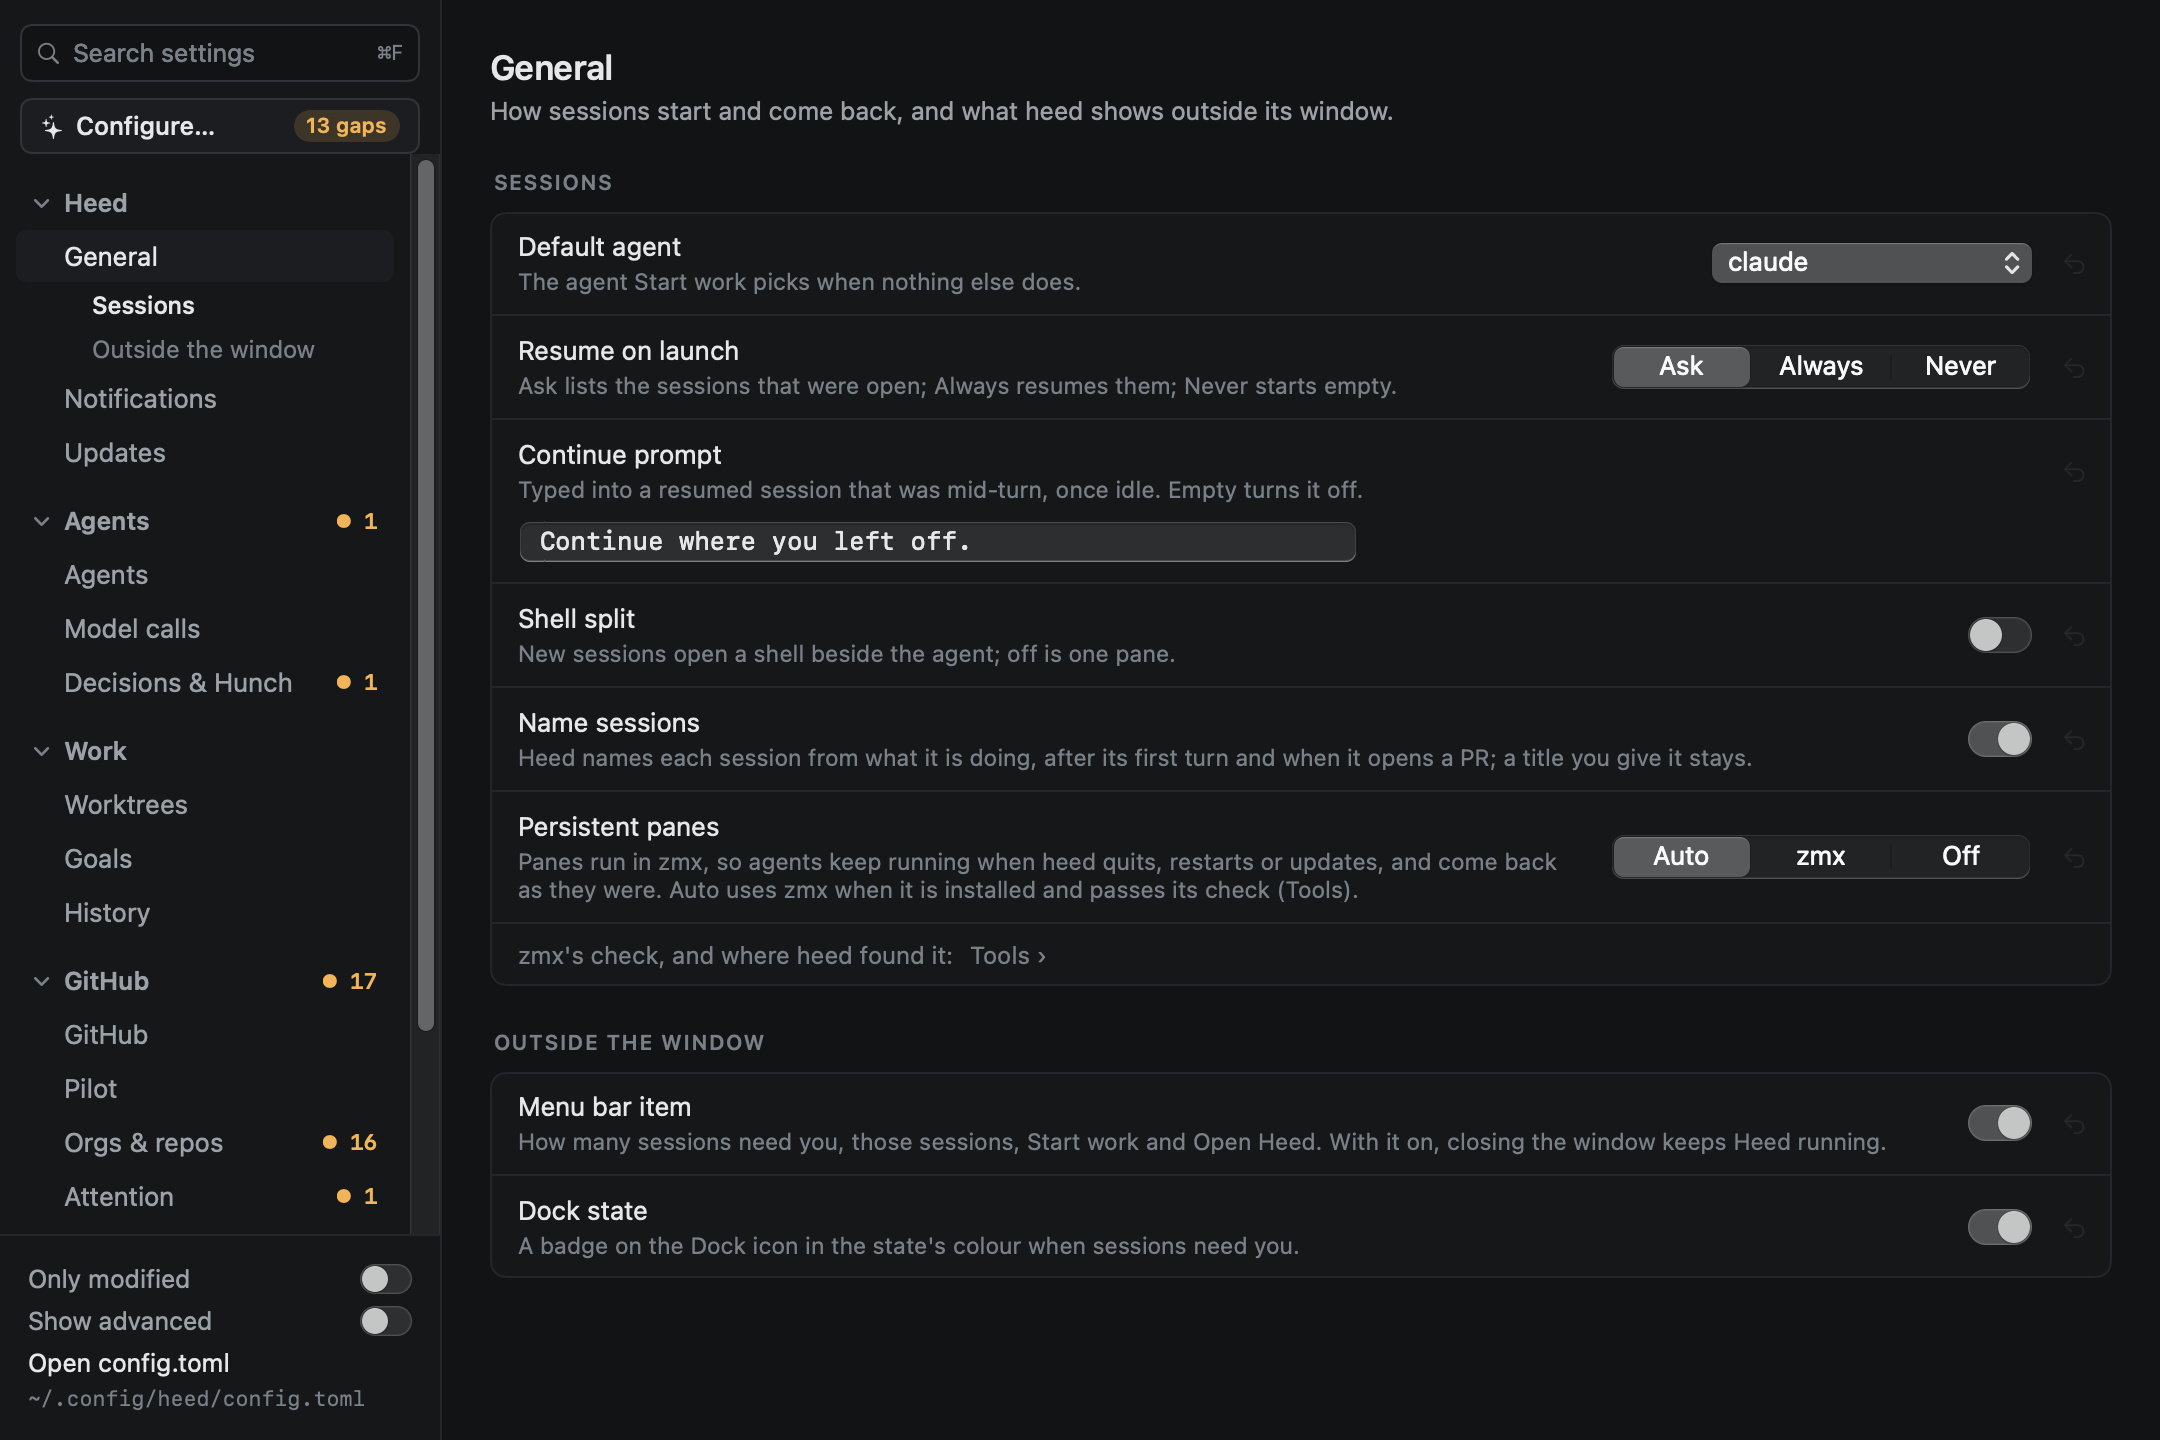
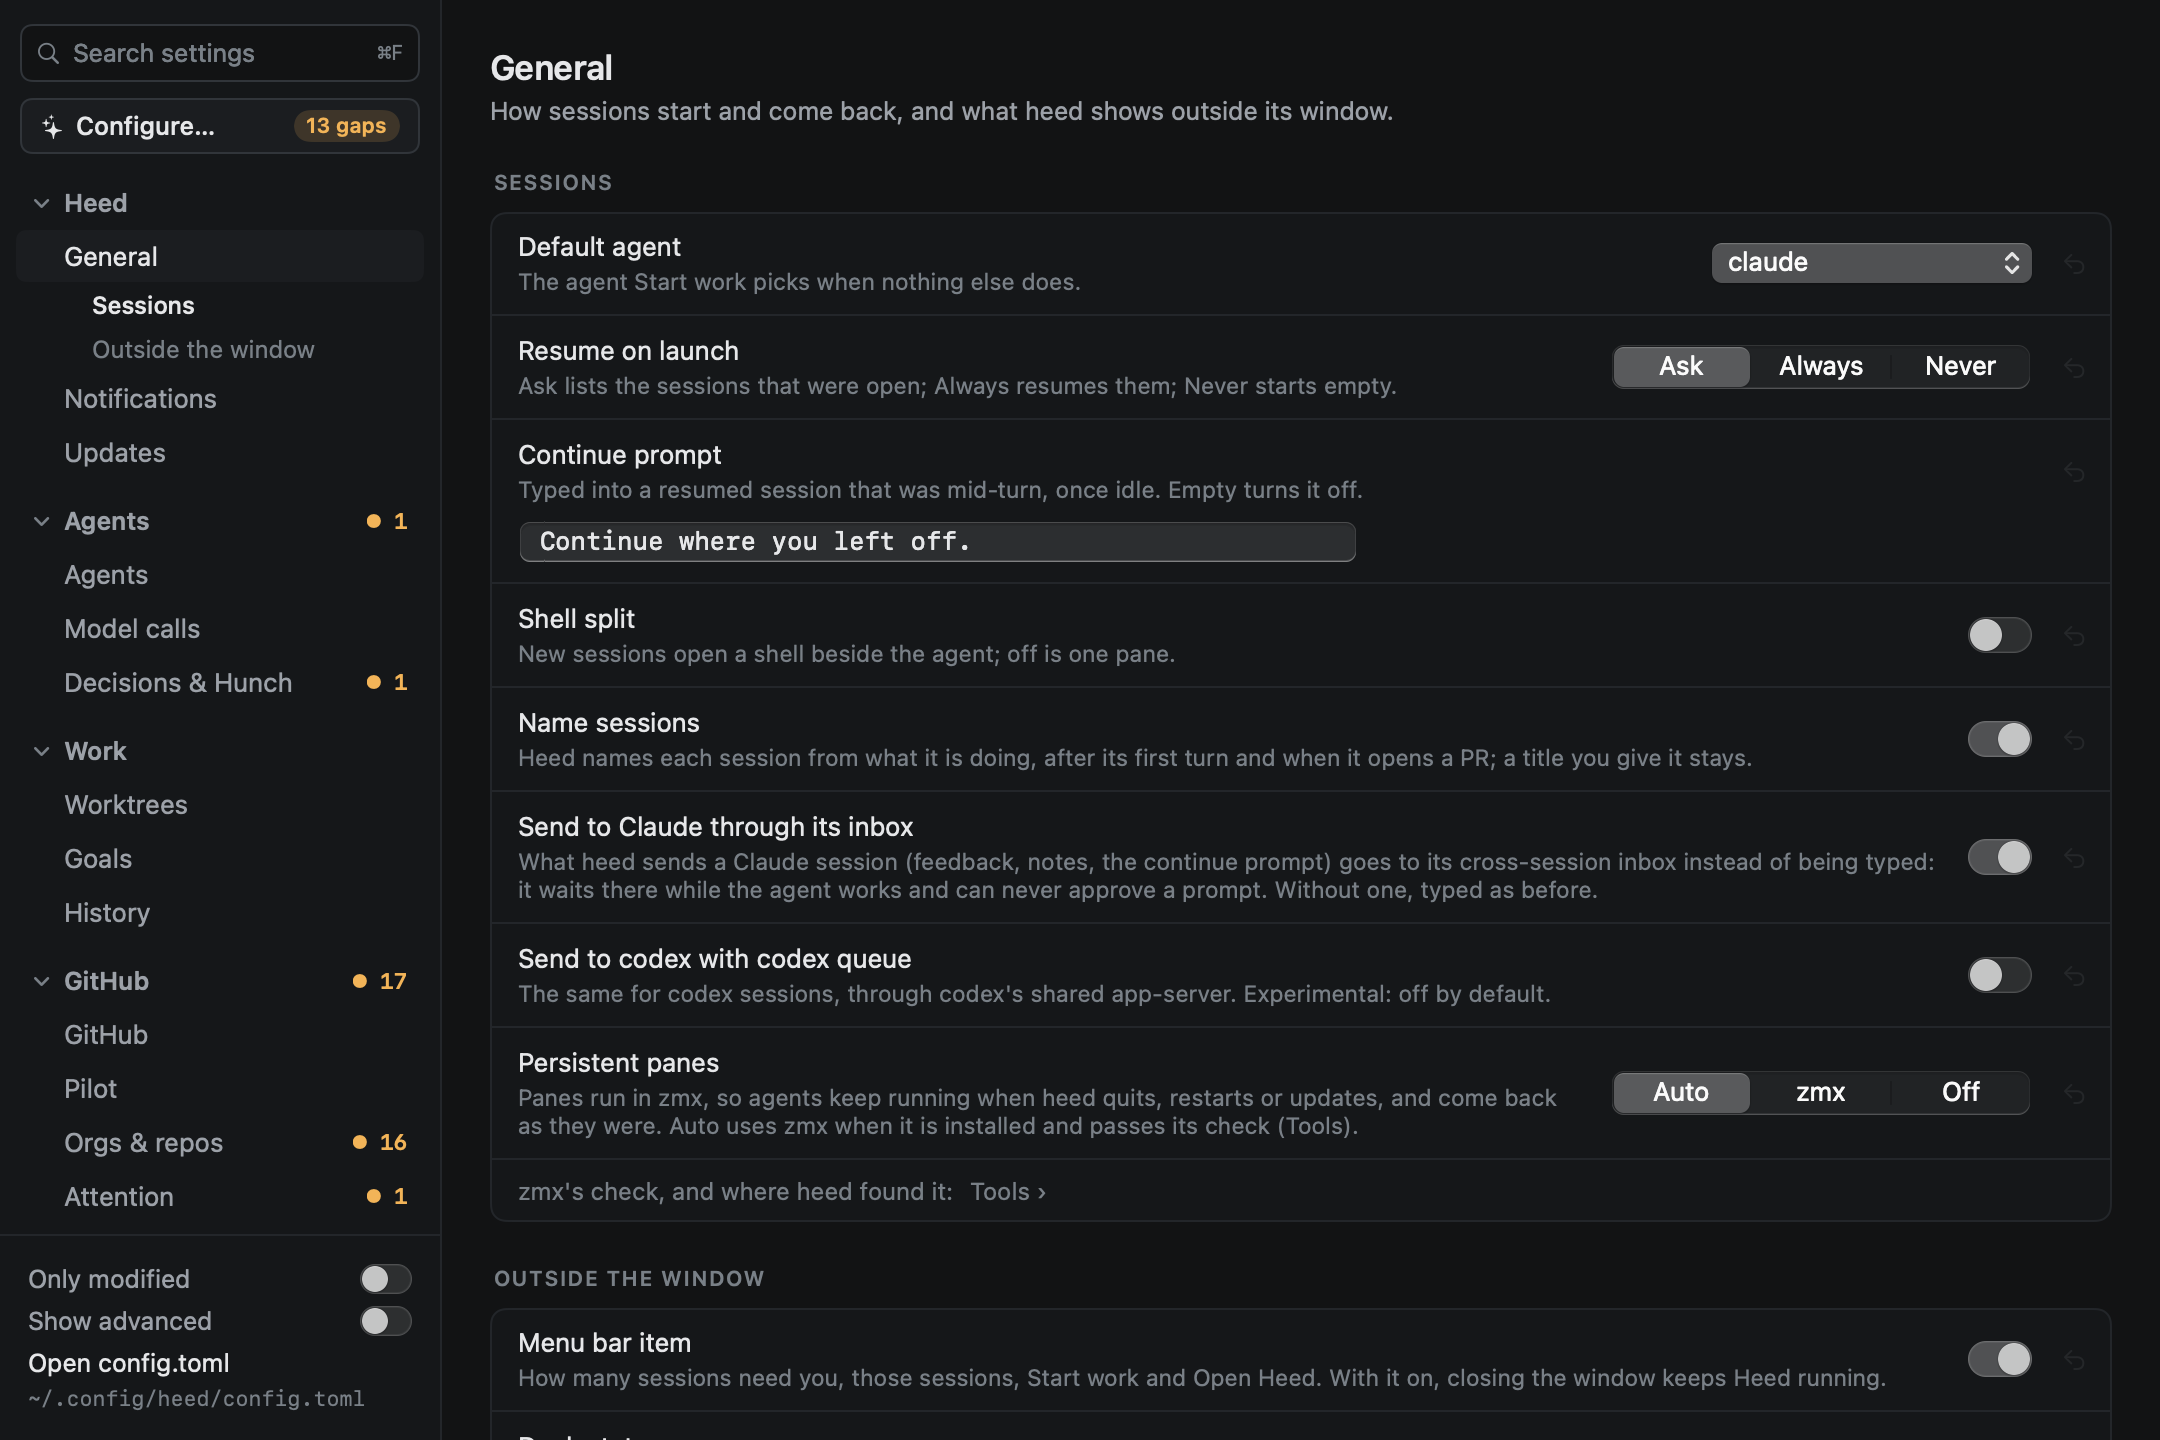
Docs: how heed talks to agents
A page on Claude's inbox (what Claude Code does with heed's messages,
held and refused, the reply socket, claude_inbox), codex's queue and why
it is off by default, why the other agents are still typed to, and
notify(session:text:) for heed's own features. Hooks, heed send, run in
session and swarm steering point at it. The settings shot and the
config reference are regenerated.

diff --git a/docs/agents/messages.md b/docs/agents/messages.md
@@ -1,0 +1,89 @@
+---
+description: How heed hands an agent what it sends it (feedback, notes, the continue prompt, heed send), and when it types.
+---
+
+# How Heed talks to agents
+
+Heed sends agents things on your behalf: a PR's feedback with `run_in = "session"`, a session's notes on its diff, the
+continue prompt after a resume, items added from GitHub (`a`), loose ends from the inspector, `heed send`, a swarm's
+messages and answers, and a nudge to a swarm's lead. Each one goes the best way the agent offers:
+
+| Agent | How | When |
+|---|---|---|
+| claude | Its cross-session inbox | Whenever it runs: Claude holds it until it can read it |
+| codex | `codex queue`, when `codex_queue` is on | Whenever it runs: codex keeps it in the thread's queue |
+| any other, or either of those without its channel | Typed into its pane, Return pressed | Only while it is idle or done, and you have not typed there in the last 20 seconds |
+
+Where each went is on the session's activity ("sent 2 notes to claude, through Claude's inbox"), in the status line,
+in the Autopilot log for a PR's rounds, and in a swarm's rows. A message typed as always says nothing more.
+
+The one thing heed still types whatever the agent is: **Allow** on a permission notification presses Return on the
+prompt. No channel can answer a prompt, by design.
+
+## Claude's inbox
+
+Claude Code (2.1.224 and later) gives every running session an inbox, a Unix socket only your user can reach, and
+exports its path to hooks as `CLAUDE_CODE_MESSAGING_SOCKET`. Heed's hook passes the path to the app when the session
+starts, with each prompt and when a turn ends, so heed learns it again after a restart. Heed's panes start with the
+variable empty, so an inbox inherited from wherever Heed was opened is never taken for the pane's own.
+
+A message there arrives as a message from another session, starting "From heed, the app your user runs this session
+in:". Claude Code tells the agent such a message can never approve a permission prompt or stand in for you, and never
+to change its permissions, `CLAUDE.md` or settings because of one; a command in it (`/compact`) is plain text. While
+the agent works it reads the message between tool calls; when idle, it starts a turn with it. So a message through the
+inbox does not wait for the agent to be idle, nor for you to stop typing in its pane (nothing is typed under your
+fingers). A delivery that waits for you to leave the session alone (auto-fed feedback, five minutes after your last
+keystroke) still waits.
+
+What Claude Code does with it depends on the session:
+
+- **Delivered**: the default for a session that asks for permissions, and with `crossSessionInbound = "accept"`.
+- **Held for your approval**: a session that bypasses permission prompts, or `crossSessionInbound = "hold"`. Claude
+  shows the message in the session for you to approve or deny; heed records it as queued ("held for your approval in
+  the session"), and records it again if it is denied or expires there.
+- **Refused**: `crossSessionInbound = "refuse"`. Heed types it instead, under the typing rules above, and stops
+  using that session's inbox.
+
+Heed learns which from Claude Code itself: each message names a reply socket beside the session's own
+(`heed-<pid>.sock`), where Claude Code says when it held or refused one. No answer means it was delivered. Nothing
+answering at the inbox (the agent exited) also falls back to typing.
+
+Heed never changes `crossSessionInbound` and never presents the session's own token: to Claude Code, heed is another
+process on your machine, and the session's own rules for one apply. To turn the inbox off and have everything typed as
+before:
+
+```toml
+[sessions]
+claude_inbox = false
+```
+
+A Claude session on a [host](../hosts/index.md) is always typed to: its inbox is on that machine.
+
+## Codex
+
+Codex sessions on codex's shared app-server daemon (where codex 0.163's TUI runs unless started with `--no-daemon`) take messages with `codex queue --thread
+<id> --message <text>`, which adds it to the thread's queue: codex runs it when the thread takes its next turn, as it
+does a prompt you queue while it works. Heed knows the thread from codex's `SessionStart` hook. This is off by
+default:
+
+```toml
+[sessions]
+codex_queue = true
+```
+
+It is off because `codex queue` says only that the message was stored, not that a running TUI picked it up: a thread
+not loaded on the daemon (a codex started with `--no-daemon`, or interrupted mid-turn) can keep it until you start a
+turn yourself. Heed records it as "queued in codex's queue". When `codex queue` fails, heed types it instead, under
+the typing rules.
+
+## Everything else
+
+opencode, cursor, pi and gemini are typed to. opencode's TUI runs a local HTTP server on a port of its choosing, and
+heed does not learn that port for the session it started yet; the others offer nothing a running session reads.
+
+## For heed's own features
+
+A part of heed that wants to tell a session something calls `notify(session:text:)` on the app model: the session's
+channel, else typed under the typing rules, recorded on the session either way. It says where the message ended up
+(`DeliveryOutcome`): delivered, queued, typed (and why its channel was not used), waiting, or failed. Nothing
+retries a message that waits.

diff --git a/docs/reference/cli.md b/docs/reference/cli.md
@@ -36,7 +36,7 @@ work anywhere while Heed runs:
 | `heed sessions` | Every session, one per line: id, state (or "needs you"), agent, title, folder |
 | `heed watch` | The session list as JSON lines: now, then each time it changes |
 | `heed start [--agent <name>] [--dir <path>] [--arg <word>]... [--focus] "<prompt>"` | Starts an agent on the prompt in `path` (here by default): as work in that worktree when Heed knows it, else as a chat in the folder, with each `--arg` added to its command line (an editor's MCP config, say). It starts off screen; `--focus` brings Heed forward on it. A worktree that already has a session is refused with that session's id |
-| `heed send <session> "<text>"` | Types the text into the session's agent and presses Return, only while the agent is idle or done and you have not just typed there; otherwise it says why and sends nothing |
+| `heed send <session> "<text>"` | Hands the text to the session's agent: through its [inbox](../agents/messages.md) when it has one, else typed with Return pressed, only while the agent is idle or done and you have not just typed there; otherwise it says why and sends nothing |
 | `heed show [--focus] <session>` | Shows the session in Heed's window; `--focus` also brings Heed forward |
 | `heed memory show\|search\|note` | What heed's [Mindmap](../history/mindmap.md#heed-memory) keeps about the work the calling session continues, from its own org's Mindmap only |
 | `heed goal <command>` | The goal the calling session is on: read it, record decisions, questions and items, check criteria with evidence, propose scope changes, spawn work. See [Agents keep the goal](../goals/cli.md) |
@@ -44,5 +44,5 @@ work anywhere while Heed runs:
 
 Each line on the socket is one JSON object. A request has a `method` (`sessions`, `watch`, `start`, `send`, `show`, `goal`), an
 `id` its reply echoes, and the fields the command takes (`directory`, `agent`, `prompt`, `arguments`, `session`, `text`, `focus`, `goal`). A
-reply has `ok`, and `error`, `session`, `sessions` or `goal`. After answering `watch`, Heed sends `{"event":"sessions",…}` each
+reply has `ok`, and `error`, `session`, `sessions` or `goal` (`send`'s also says how it went, in `delivery`). After answering `watch`, Heed sends `{"event":"sessions",…}` each
 time a session's state, title or group changes.

diff --git a/docs/configuration/reference.md b/docs/configuration/reference.md
@@ -59,6 +59,12 @@ shell_split = false
 # Heed names each session from what it is doing: after its agent's first turn and when it opens a PR, on Apple's
 # on-device model where the Mac has it, else a model call. A title you give it (session.rename) stays.
 name_sessions = true
+# What heed sends an agent (feedback, notes, the continue prompt, heed send) goes to a Claude session through its
+# cross-session inbox instead of being typed into its pane: it queues there while the agent works, and can never
+# approve a prompt. A session without one, or that refuses it, gets it typed as before.
+claude_inbox = true
+# The same for codex sessions, with `codex queue` (experimental: off until you turn it on).
+codex_queue = false
 # Keep every pane's terminal alive in a zmx session, so agents keep running when heed quits, restarts or updates,
 # and come back as they were: auto (zmx when it is installed and works; Settings > General shows its check),
 # zmx, or none (panes end with heed).

diff --git a/docs/goals/swarms/steering.md b/docs/goals/swarms/steering.md
@@ -114,7 +114,8 @@ leaves it where it is (`b` on the task in the plan still moves it).
 
 The asker's waiting `heed goal ask` reads its answer itself. Anything else for an agent (a message, a question handed
 to a peer or the lead, an answer the asker stopped waiting for, an overrule) is typed into its pane, one at a time, only
-when its agent is idle and you have not typed there in the last 20 seconds, the same rule feedback for a PR follows. A
+when its agent is idle and you have not typed there in the last 20 seconds, the same rule feedback for a PR follows
+(a Claude agent gets it through its [inbox](../../agents/messages.md) instead, whenever it runs). A
 worker whose turn ends while something waits for it is kept going until it has it. A worker also finds what waits for
 it under **For you** in `heed goal plan show`. Each hand-over is a row by heed.
 

diff --git a/docs/github/watch.md b/docs/github/watch.md
@@ -266,7 +266,9 @@ one takes you to its tab.
 
 `run_in = "session"` (per org and repo too, or **Runs in** on the Pilot page) sends each round to the session's own
 agent instead, as one prompt typed into its pane. It waits until that agent is idle or done, never while it works,
-is blocked or asks, and until you have not typed in it for five minutes (20 seconds after `zg`). No worktree, branch or
+is blocked or asks, and until you have not typed in it for five minutes (20 seconds after `zg`). A Claude session gets
+it through its [inbox](../agents/messages.md) instead, which holds it until the agent can read it; the five minutes
+still apply. No worktree, branch or
 tab is made. Use it where a fresh worktree gets in the way, such as an agent that asks to trust every new folder.
 
 Nothing is sent for a PR once it is merged or closed, in either mode.

diff --git a/docs/agents/index.md b/docs/agents/index.md
@@ -37,6 +37,7 @@ What an agent cannot report, Heed [reads from its screen](screen-reading.md). Ea
 plan and resume arguments can be changed, and new agents added: see [Custom agents](custom-agents.md).
 
 - [Hooks](hooks.md): what Heed passes to each agent, and why your own agent config never changes.
+- [How Heed talks to agents](messages.md): Claude's inbox, codex's queue, and when Heed types instead.
 - [Reading the screen](screen-reading.md): guessed states, and the patterns behind them.
 - [Custom agents](custom-agents.md): adding your own.
 - [Models and effort](models.md): the models and reasoning efforts heed offers per agent, and how each takes them.

diff --git a/docs/agents/hooks.md b/docs/agents/hooks.md
@@ -21,6 +21,9 @@ configuration is edited.
 
 The command preview at the bottom of [Start work](../start-work/agent-and-options.md) shows exactly what will run.
 
+Claude's hook also passes on where the session's inbox is (`CLAUDE_CODE_MESSAGING_SOCKET`), so heed can send it
+messages without typing: see [How Heed talks to agents](messages.md).
+
 ## What each reports
 
 | State | claude | opencode | codex | pi | cursor |
